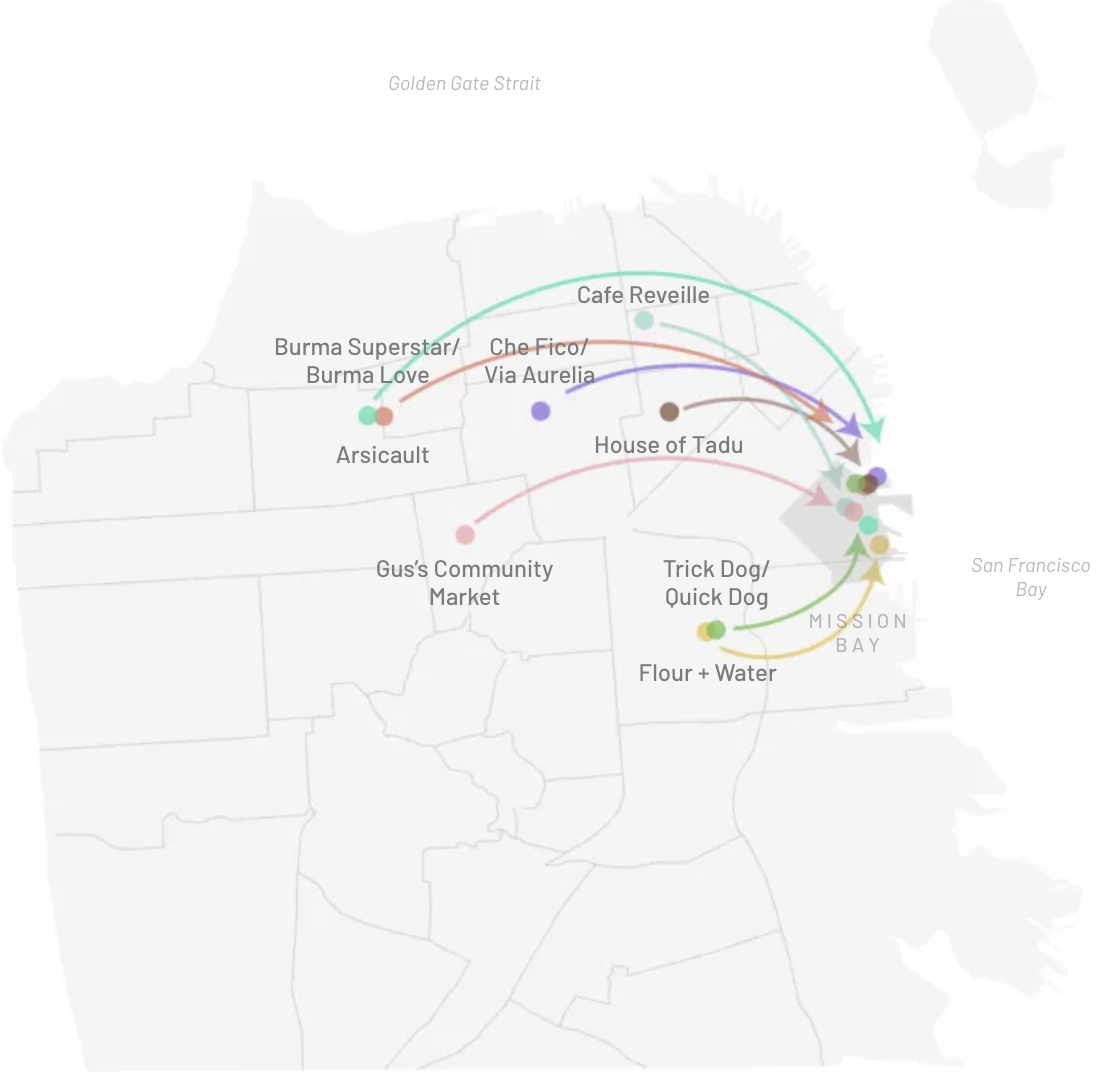
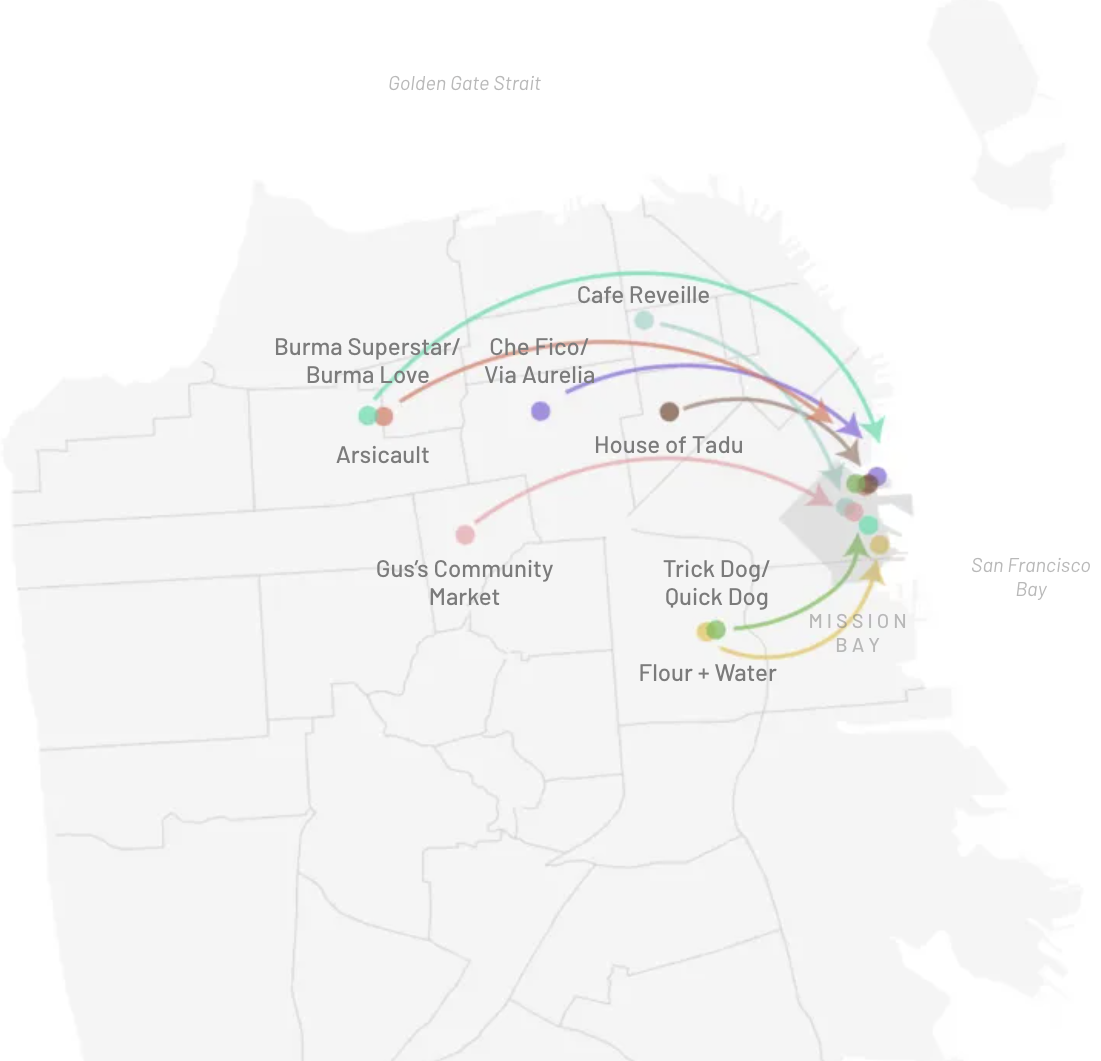
Run both food maps full width at identical size
Both crops normalised to 1101x1061 so they render the same, and both now
span the column rather than being inset. The restaurant names came out of
the copy to make room — both maps label every business already, so the
list was duplicating the graphic.

diff --git a/index.html b/index.html
@@ -378,21 +378,19 @@
     <h2>The Aura of Authenticity</h2>
     <p class="lede">San Francisco's best-loved restaurants are opening outposts on
     the waterfront, and little of it is accidental.</p>
-    <p>Arsicault, Che Fico, Burma Superstar and Flour + Water have all taken a
-    second address in Mission Bay; Breadbelly, Souvla and Standard Deviant have
-    done the same in Dogpatch. Developers court them with improvement allowances
-    and construction help. To pull people into a big new development, as one put
-    it, you need some aura of authenticity.</p>
-    <figure class="narrow">
+    <p>Developers court them with improvement allowances and help on construction
+    costs. To pull people into a big new development, as one put it, you need some
+    aura of authenticity.</p>
+    <figure>
       <img src="images/mission-bay-food-map.png"
            alt="Map of San Francisco with coloured arcs curving from neighbourhoods across the city to Mission Bay, each labelled with a restaurant: Arsicault, Cafe Reveille, Burma Superstar, Che Fico, House of Tadu, Gus's Community Market, Trick Dog and Flour + Water"
-           loading="lazy" width="1101" height="1075">
+           loading="lazy" width="1101" height="1061">
       <figcaption>Outposts in Mission Bay, May 2026.</figcaption>
     </figure>
-    <figure class="half">
+    <figure>
       <img src="images/dogpatch-food-map.png"
            alt="A second map of San Francisco with arcs running to Dogpatch, labelled Breadbelly, Souvla, Standard Deviant and CoffeeShop"
-           loading="lazy" width="1107" height="1061">
+           loading="lazy" width="1101" height="1061">
       <figcaption>And the same pattern in Dogpatch.</figcaption>
     </figure>
     <p class="meta">Maps for Mission Local &middot; Reporting by Nicholas David
